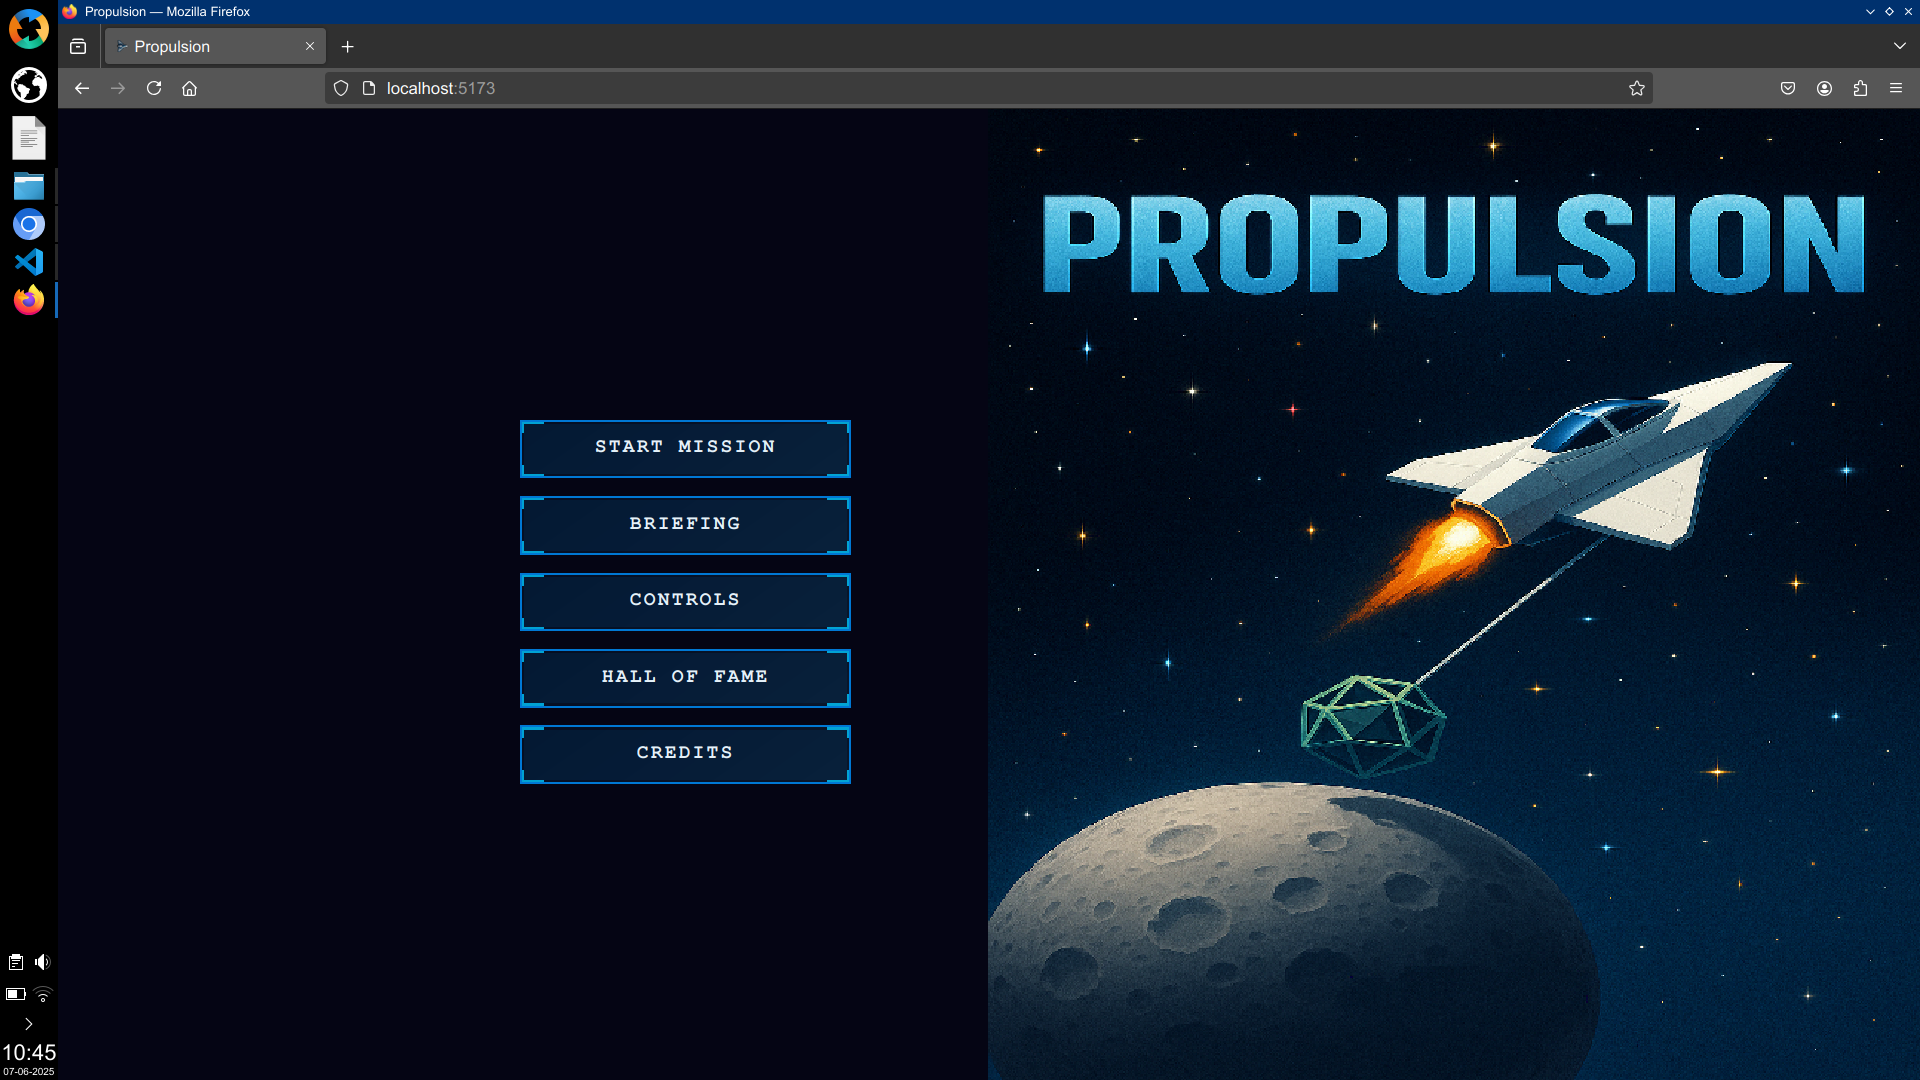
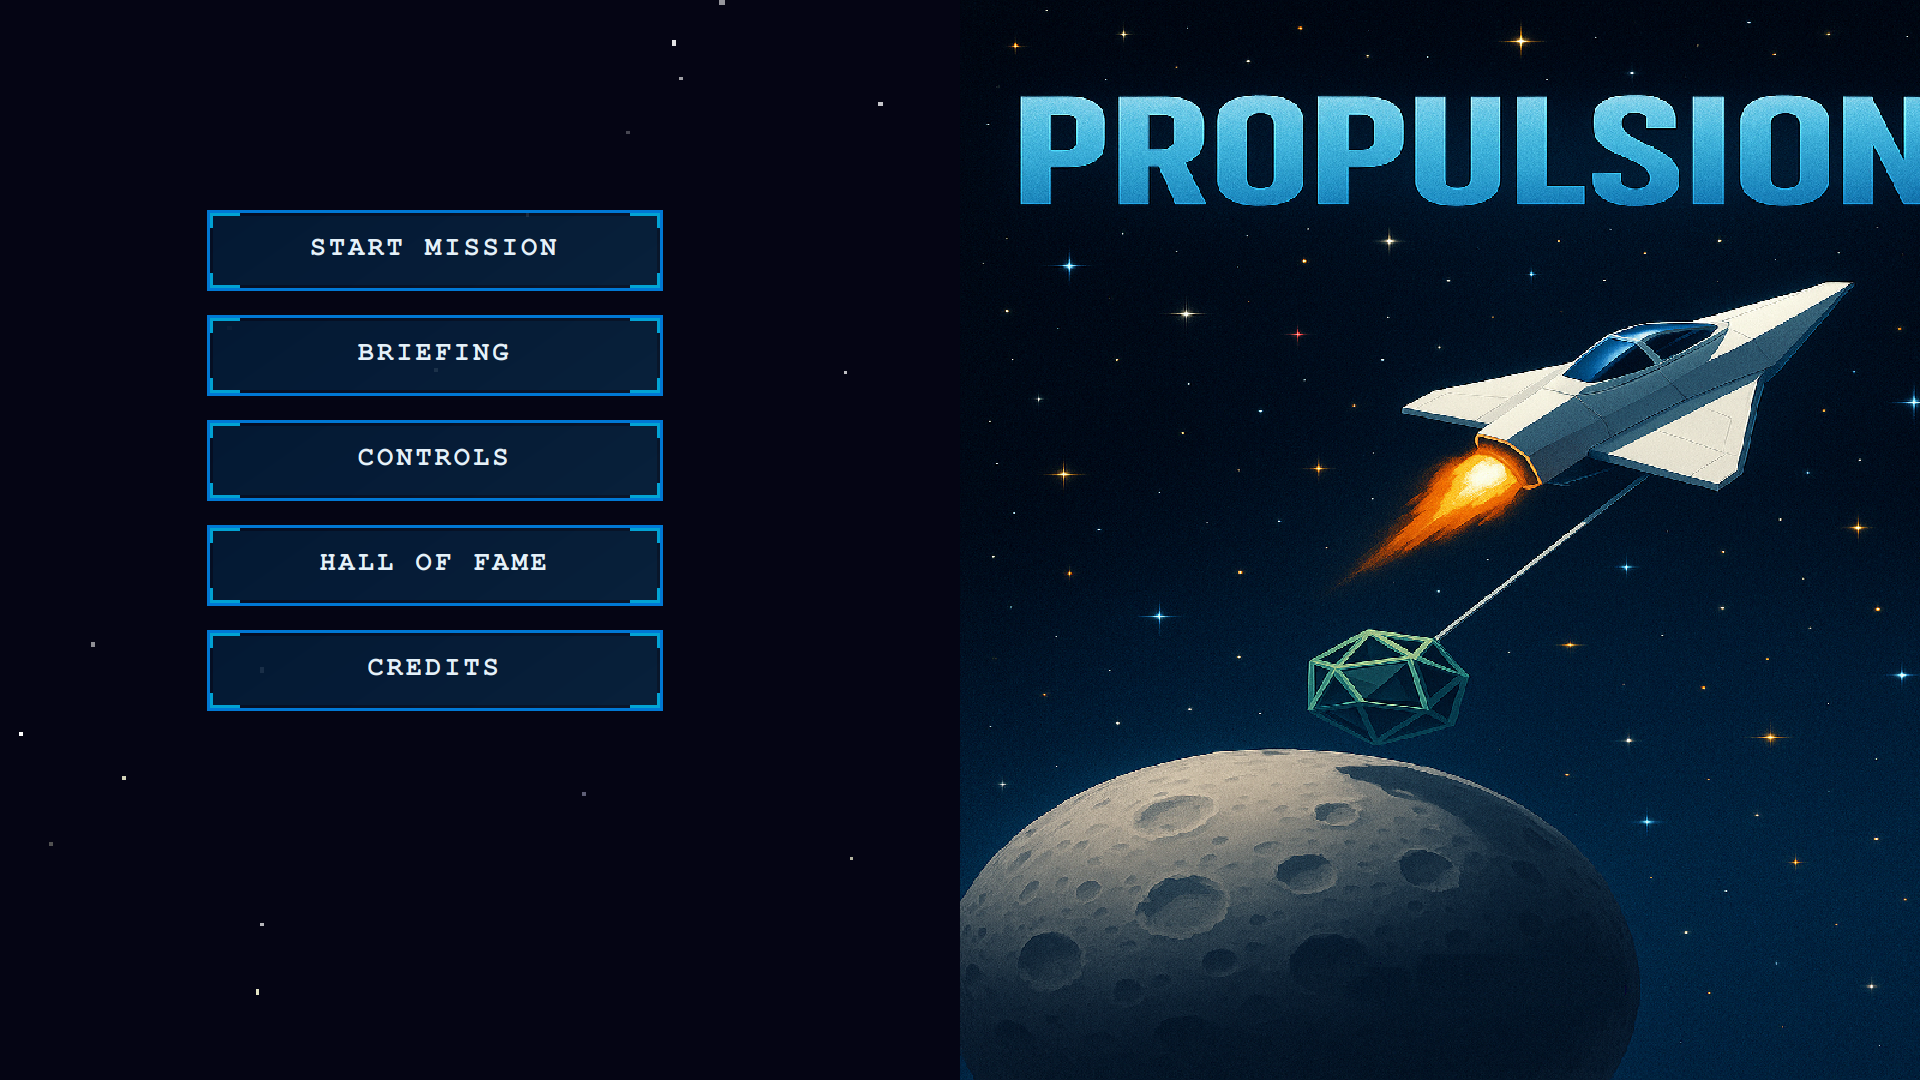
added documentation

diff --git a/propulsionWeb/src/menu/ui/gameOverScreen.ts b/propulsionWeb/src/menu/ui/gameOverScreen.ts
@@ -77,7 +77,7 @@ export class GameOverScreen {
     public dispose(): void {
         this.buttons.forEach(button => button.dispose())
         this.scene.clear()
-        this.engine.remove(this.sceneName)
+        //this.engine.remove(this.sceneName)
         GameOverScreen.instance = null
     }
 

diff --git a/README.md b/README.md
@@ -1,14 +1,20 @@
 # Propulsion Web Game
 
-This project is a modern web-based remake of the classic space physics game Thrust, originally created in 1986 for the BBC Micro. The game features gravity-based gameplay, tractor beam mechanics, and challenging cargo collection missions through underground cave systems.
+This project is a modern web-based remake of the classic space physics game Thrust, originally created in 1986 for the BBC Micro. My original remake was inspired by a high school physics teacher's vector based physics and fun with Thrust on an Acorn Elecron. I challenged myself to do a remake in C++ and assembler on Dos machine in 1997, which I partially completed before loosing interest.
 
-The original Thrust was a groundbreaking game that introduced realistic physics simulation and momentum-based spacecraft control. This remake preserves the core gameplay mechanics while bringing the experience to modern web browsers with enhanced graphics, sound, and cross-platform compatibility.
+The original Thrust was a groundbreaking game that introduced realistic physics simulation and momentum-based spacecraft control.
 
-The development journey spans nearly four decades - from the original 1986 BBC Micro assembly code, through my 1997 C++ DOS implementation, to this contemporary TypeScript web version. Each iteration has maintained the essential physics and gameplay that made Thrust compelling while adapting to new technological capabilities.
+With the advancements in AI development, I decided to spend some time again on the remake and measure productivity gains compared to 1997. The remake took me about four weeks of part-time work. The remake preserves the core gameplay mechanics while bringing the experience to modern web browsers and cross-platform compatibility. I decided to keep the retro-sound, which is a nice walk back to memory lane for some of us.
+
+Here you can read about the realization steps from initial design to completion, while using AI LLMs from start to completion. <link to creation process>
+
+The game features the same gravity-based gameplay, tractor beam mechanics, and challenging cargo collection missions through underground cave systems. However in contradiction to Thrust, my solution adds dynamic mapediting and tile creation. 
+
+If you read this and would like to add maps and/or tiles. Feel free to do a pull request. The used mapeditor is included the repo. 
 
 ## Usage
 
-The game is hosted on GitHub Pages and can be accessed [here](https://vlietland.github.io/propulsion/) It can be played freely in any modern web browser.
+The game is hosted on GitHub Pages and can be accessed [here](https://vlietland.github.io/propulsion/) It can be played freely in any modern web browser. High score is limited to the used machine, for security sake.
 
 ### Game Controls
 - **Z and X** - Rotate your ship left/right
@@ -26,8 +32,7 @@ Navigate your ship through gravitational cave systems to:
 The physics simulation includes realistic momentum, gravity effects, and tractor beam mechanics that require skill and precision to master.
 
 ## Documentation
-
-For details on the architecture of the modern Propulsion web application, see the [propulsion documentation](./propulsionWeb/docs/propulsion).
+For details on the architecture of the modern Propulsion web application, see the <link the design page>. The description of the propulsion project you can read <link to propulsion page>
 
 For more information about the original Thrust game and its historical significance, see the [thrust documentation](./propulsionWeb/docs/thrust).
 
@@ -36,18 +41,26 @@ For technical analysis of the 1997 C++ implementation, see the [legacy code docu
 ## Screenshots
 
 Modern Propulsion (2025):
-<img src="./propulsionWeb/docs/images/propulsion-gameplay.png" alt="Modern Propulsion gameplay">
 <img src="./propulsionWeb/docs/images/propulsion-menu.png" alt="Modern Propulsion menu">
+<img src="./propulsionWeb/docs/images/propulsion-gameplay6.png" alt="Modern Propulsion briefing">
+<img src="./propulsionWeb/docs/images/propulsion-gameplay1.png" alt="Modern Propulsion gameplay">
+<img src="./propulsionWeb/docs/images/propulsion-gameplay2.png" alt="Modern Propulsion gameplay">
+<img src="./propulsionWeb/docs/images/propulsion-gameplay3.png" alt="Modern Propulsion gameplay">
+<img src="./propulsionWeb/docs/images/propulsion-gameplay4.png" alt="Modern Propulsion gameplay">
+<img src="./propulsionWeb/docs/images/propulsion-gameplay5.png" alt="Modern Propulsion gameplay">
+
+Legacy C++ Version (1997):
+<img src="./propulsionWeb/docs/images/propulsion1997-gameplay1.png" alt="1997 DOS version">
 
 Original Thrust (1986):
 <img src="./propulsionWeb/docs/images/thrust-original.png" alt="Original Thrust on BBC Micro">
 
-Legacy C++ Version (1997):
-<img src="./legacyCode/docs/images/propulsion1997-gameplay1.png" alt="1997 DOS version">
-
 ## Development
 
 ### Technologies Used
+- **Cline** - Client agent
+- **Copilot** - Claude Sonnet 4
+- **Chatgpt** - Image and sprite generation
 - **TypeScript** - Type-safe JavaScript development
 - **Excalibur.js** - 2D game engine with physics
 - **Vite** - Modern build tool and dev server
@@ -62,19 +75,18 @@ Prerequisites:
 
 Installation:
 ```bash
-git clone https://github.com/yourusername/propulsion.git
-cd propulsion/propulsionWeb
-npm install
-npm run dev
+git clone https://github.com/vlietland/propulsion.git
+```
+Add excalibur-tiled:
+```bash
+cd propulsionweb/external
+git clone https://github.com/excaliburjs/excalibur-tiled
+cd ../..
+./setup.sh
+./run.sh
 ```
 
 Open your browser to `http://localhost:5173`
-
-### Building for Production
-```bash
-npm run build
-./publish.sh
-```
 
 ## Project Evolution
 
